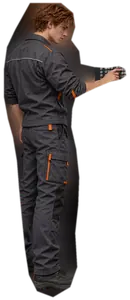
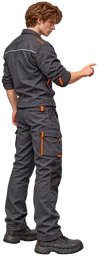
Replace hall worker sprites with final transparent assets

diff --git a/game.js b/game.js
@@ -611,39 +611,9 @@
   const skillLevel=employee=>employee?Math.min(3,Math.max(employee.trained,employee.xp>=1500?3:employee.xp>=600?2:employee.xp>=180?1:0)):0;
   const assignedEmployee=(m,shift)=>state.staffRoster['shift'+shift].find(employee=>employee.assignedBay===m.bay);
   const hallWorkerSprites=Object.freeze({
-    'Vaska Feilensang':'assets/vaska-working.webp?v=1',
-    'Kael Drehkamm':'assets/kael-working.webp?v=1'
+    'Vaska Feilensang':'assets/vaska-working.webp?v=2',
+    'Kael Drehkamm':'assets/kael-working.webp?v=2'
   });
-  const hallWorkerSpriteCleanCache=new Map();
-  function cleanHallWorkerSprite(src){
-    if(hallWorkerSpriteCleanCache.has(src))return hallWorkerSpriteCleanCache.get(src);
-    const promise=new Promise(resolve=>{
-      const img=new Image();
-      img.decoding='async';
-      img.onload=()=>{
-        try{
-          const canvas=document.createElement('canvas');
-          canvas.width=img.naturalWidth;canvas.height=img.naturalHeight;
-          const ctx=canvas.getContext('2d',{willReadFrequently:true});
-          if(!ctx){resolve(src);return;}
-          ctx.drawImage(img,0,0);
-          const frame=ctx.getImageData(0,0,canvas.width,canvas.height);
-          const px=frame.data;
-          for(let i=3;i<px.length;i+=4){
-            const a=px[i];
-            if(a<=150)px[i]=0;
-            else if(a<235)px[i]=Math.round((a-150)/85*255);
-          }
-          ctx.putImageData(frame,0,0);
-          resolve(canvas.toDataURL('image/png'));
-        }catch(_){resolve(src);}
-      };
-      img.onerror=()=>resolve(src);
-      img.src=src;
-    });
-    hallWorkerSpriteCleanCache.set(src,promise);
-    return promise;
-  }
   function hallWorkingOperator(machine){
     const shift=shiftAt(state.gameMinutes);
     if(!machine||!shift||!machine['operator'+shift]||!job(machine))return null;
@@ -3234,15 +3204,8 @@
             workerSprite.loading='lazy';
             b.append(workerSprite);
           }
-          if(workerSprite.dataset.cleanSource!==workingSprite){
-            workerSprite.dataset.cleanSource=workingSprite;
-            workerSprite.style.visibility='hidden';
-            cleanHallWorkerSprite(workingSprite).then(cleanedSrc=>{
-              if(workerSprite.dataset.cleanSource!==workingSprite)return;
-              workerSprite.src=cleanedSrc;
-              workerSprite.style.visibility='';
-            });
-          }
+          if(workerSprite.getAttribute('src')!==workingSprite)workerSprite.src=workingSprite;
+          workerSprite.style.visibility='';
           workerSprite.dataset.employeeId=String(employee.id);
           workerSprite.dataset.shift=String(workingOperator.shift);
           workerSprite.title=`${employee.name} arbeitet an ${catalog[machine.type].name}`;
